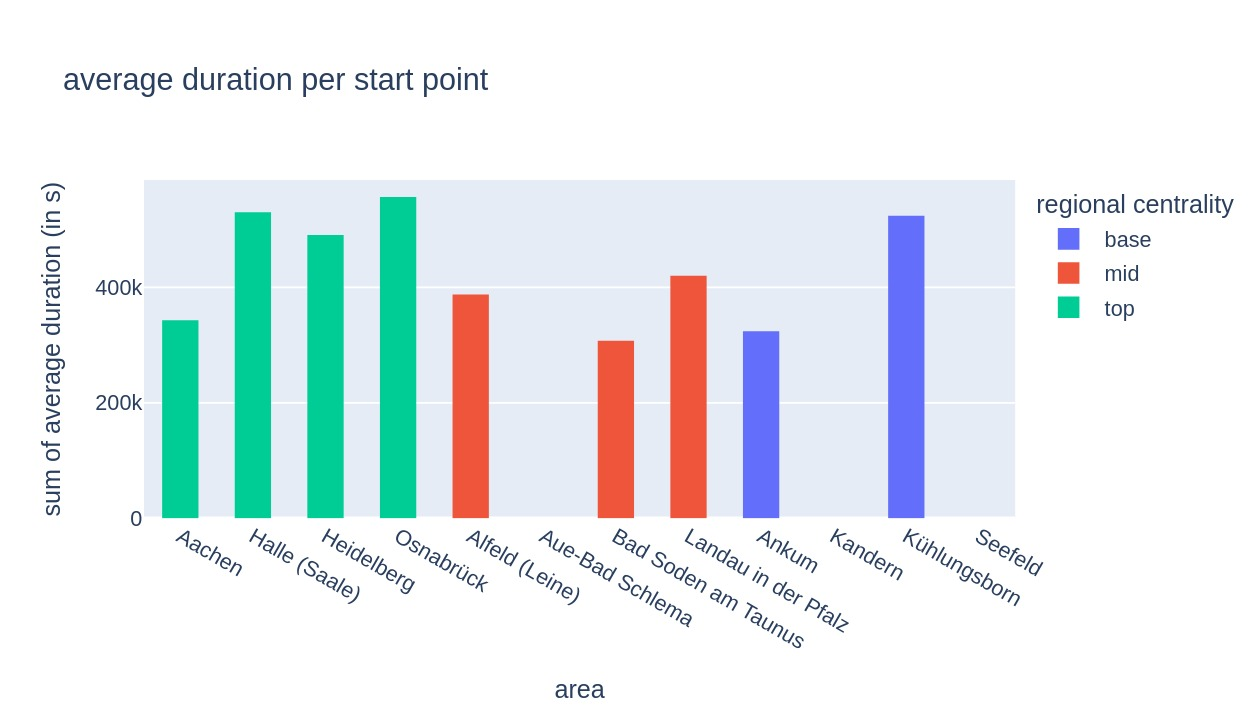
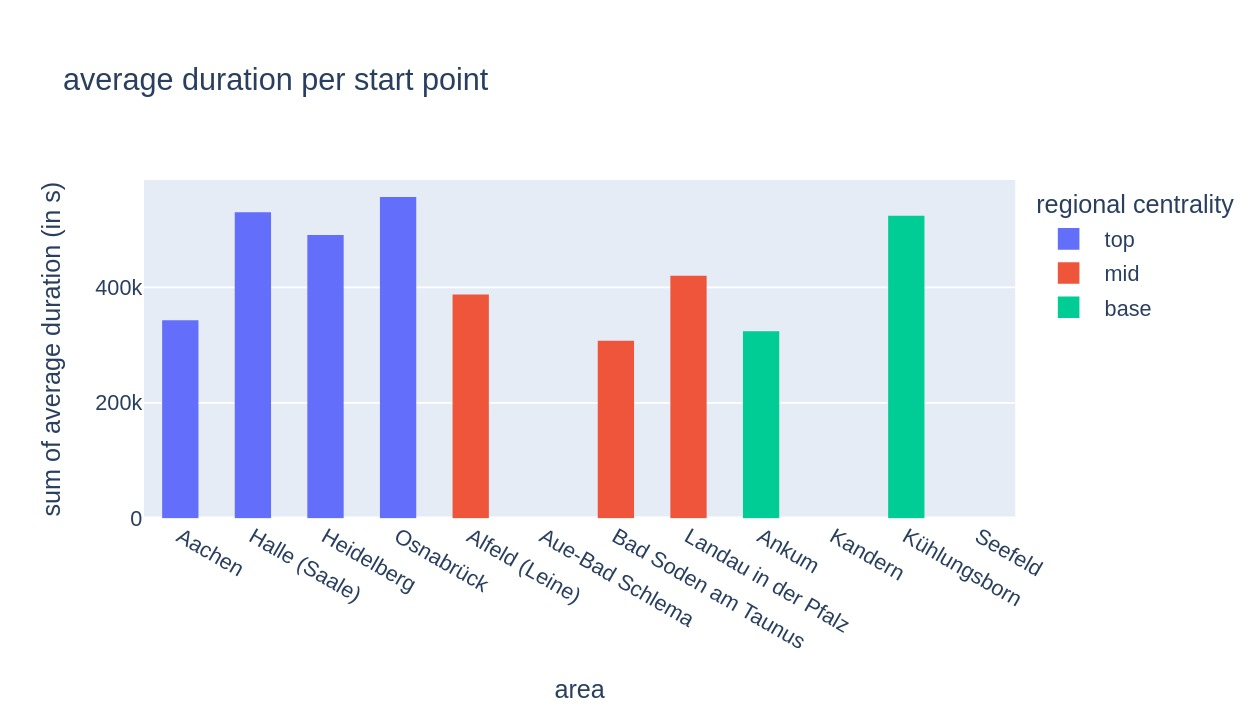
fix: plotly legend order

diff --git a/scripts/analysis/create_plots.py b/scripts/analysis/create_plots.py
@@ -87,7 +87,8 @@ if __name__ == "__main__":
               labels={
                   'average duration': 'average duration (in s)',
                   'level': 'regional centrality'},
-              order={'area': AREA_ORDER})
+              order={'area': AREA_ORDER,
+                     'level': ['top', 'mid', 'base']})
 
     for var in ['average duration', 'average speed', 'distance_start_cinema']:
         all_box_chart(var, 'level', 'area', 'analysis_filled', 'all', pe, 'all',
@@ -96,7 +97,8 @@ if __name__ == "__main__":
                               'average speed': 'average speed (in m/s)',
                               'distance_start_cinema': 'distance from start point to cinema (in m)',
                               'level': 'regional centrality'},
-                      order={'area': AREA_ORDER})
+                      order={'area': AREA_ORDER,
+                             'level': ['top', 'mid', 'base']})
 
     for var in ['distance_start_cinema', 'average walk share']:
         scatter_chart('average duration', var, 'level', 'all_analysis', pe, 'all_duration',
